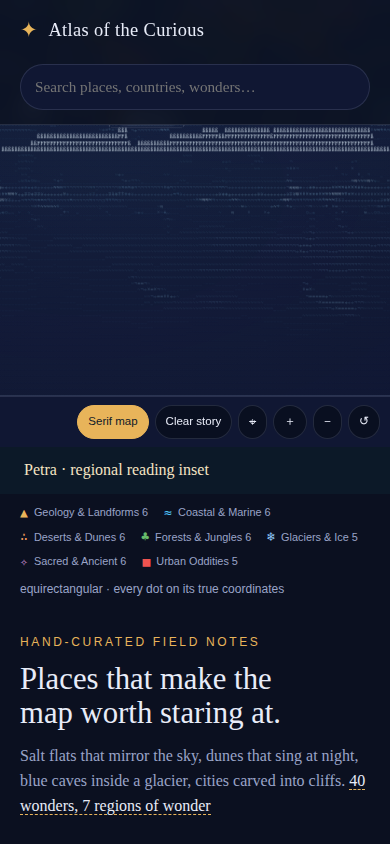
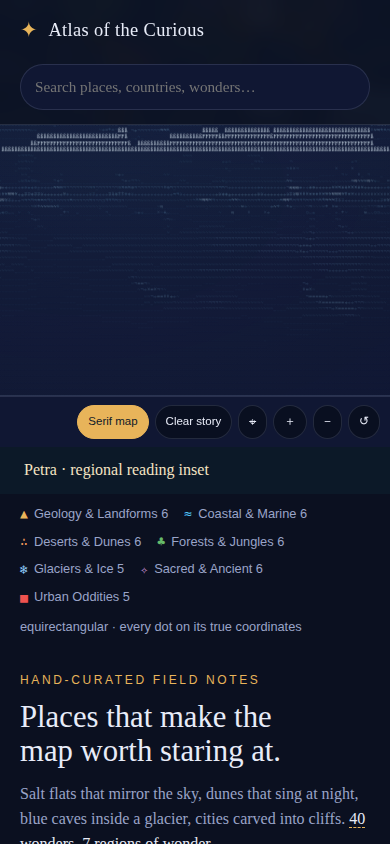
Address review round 11: reopen notes from any link, clusters, labels
- One openPlace path: grid links, both previews and the daily discovery
  reopen a just-closed field note even though its hash is unchanged.
- Globe rings that would overlap also merge at Coasts detail; a cluster
  zooms one level closer.
- Legend, readout and control labels are set larger.
- A disabled ghost button (Show route before a destination) looks
  disabled.

Changed region(s): [[0.0308, 0.5853, 0.9538, 1.0]]

diff --git a/js/app.js b/js/app.js
@@ -1168,7 +1168,7 @@
     var list = visiblePlaces();
     if (!list.length) return;
     var p = list[(Math.random() * list.length) | 0];
-    location.hash = hashForPlace(p.id);
+    openPlace(p.id);
   }
 
   // --- Daily pick --------------------------------------------------------
@@ -1197,7 +1197,7 @@
     card.appendChild(name);
     card.appendChild(tag);
     card.appendChild(go);
-    card.addEventListener("click", function () { location.hash = hashForPlace(p.id); });
+    card.addEventListener("click", function () { openPlace(p.id); });
   }
 
   // --- Dialog -------------------------------------------------------------
@@ -1280,6 +1280,22 @@
       dialog.setAttribute("open", ""); // very old browser fallback
     }
   }
+
+  // One way to open a field note. A closed note keeps its hash, so asking for
+  // the same place again would change nothing: route it directly instead.
+  function openPlace(id) {
+    var target = hashForPlace(id);
+    if (location.hash === target) route();
+    else location.hash = target;
+  }
+  // The same for every plain link to a place (grid cards, both previews).
+  document.addEventListener("click", function (e) {
+    var a = e.target && e.target.closest && e.target.closest('a[href^="#/place/"]');
+    if (!a || e.defaultPrevented || e.button !== 0 || e.metaKey || e.ctrlKey || e.shiftKey || e.altKey) return;
+    if (a.getAttribute("href") !== location.hash) return;
+    e.preventDefault();
+    route();
+  });
 
   // --- Hash routing: #/place/<id> and #/read/<id> -------------------------
   // The two are exclusive: opening the field guide closes the dialog, and

diff --git a/earthxt/place-layer.js b/earthxt/place-layer.js
@@ -273,8 +273,8 @@ export class PlaceLayer {
     return this.drawMetrics;
   }
   categoryLabel(id) { return this.categoryLabels.get(id) || ''; }
-  /** At planet scale, rings closer than a ring's width merge into one count
-   * that zooms toward its places (`onCluster`); returns the merged ids. */
+  /** Rings that would overlap merge into one count that zooms toward its
+   * places (`onCluster`); returns the merged ids. */
   clusterMarkers(ctx, level) {
     const merged = new Set(), live = new Set();
     const retire = () => {
@@ -290,11 +290,14 @@ export class PlaceLayer {
         this.clusterByKey.delete(key);
       }
     };
-    if (!this.onCluster || level.index !== 0) { retire(); return merged; }
+    // Merge wherever rings would overlap: wide apart at planet scale, ring
+    // against ring closer in; the closest detail is where they separate.
+    const reach = level.index === 0 ? 15 : level.labels ? 0 : 14;
+    if (!this.onCluster || !reach) { retire(); return merged; }
     const groups = [];
     for (const marker of this.markers) {
       if (!marker.visible || this.dimmed.has(marker.id)) continue;
-      const near = groups.find(group => Math.hypot(group.x - marker.x, group.y - marker.y) < 15);
+      const near = groups.find(group => Math.hypot(group.x - marker.x, group.y - marker.y) < reach);
       if (near) {
         near.members.push(marker);
         near.x = near.members.reduce((sum, m) => sum + m.x, 0) / near.members.length;

diff --git a/css/style.css b/css/style.css
@@ -639,6 +639,9 @@ dialog::backdrop {
 }
 
 .ghost-btn:hover, .ghost-btn:focus-visible { border-color: var(--gold); color: var(--gold); outline: none; }
+/* Unavailable until it can act (e.g. "Show route" before a destination). */
+.ghost-btn:disabled,
+.ghost-btn:disabled:hover { opacity: 0.45; cursor: default; border-color: var(--line); color: var(--ink-dim); }
 
 /* ---------- Footer ---------- */
 .site-footer {
@@ -1334,7 +1337,7 @@ dialog::backdrop {
   align-items: center;
   gap: 6px;
   font-family: Verdana, Geneva, sans-serif;
-  font-size: 0.68rem;
+  font-size: 0.8rem;
   color: var(--ink-dim);
 }
 
@@ -1347,7 +1350,7 @@ dialog::backdrop {
 
 .atlas-scale {
   font-family: Verdana, Geneva, sans-serif;
-  font-size: 0.75rem;
+  font-size: 0.8rem;
   color: var(--ink-dim);
 }
 

diff --git a/earthxt/app.js b/earthxt/app.js
@@ -354,7 +354,7 @@ async function main({ embedded = false } = {}) {
         setRotation(false);
         state.latitude = members.reduce((sum, place) => sum + place.latitude, 0) / members.length;
         state.longitude = members.reduce((sum, place) => sum + place.longitude, 0) / members.length;
-        zoomTo(LEVELS[1].targetDistance);
+        zoomTo(LEVELS[Math.min(level.index + 1, LEVELS.length - 1)].targetDistance);
         $('globe').focus({ preventScroll: true });
         setText('live-status', `Zoomed to ${members.map(place => place.name).join(', ')}.`);
         dirty = true;

diff --git a/css/globe.css b/css/globe.css
@@ -250,7 +250,7 @@
 /* Wider screens: a little more type and air between the control groups
    (detail · appearance · movement · zoom). */
 @media (min-width: 641px) {
-  .globe-controls .map-btn { font-size: 0.76rem; }
+  .map-controls .map-btn, .view-btn, .motion-btn { font-size: 0.82rem; }
   .globe-controls .turn-pad .map-btn { padding: 4px 10px; }
   .globe-controls .zoom-group { gap: 6px; }
 }
